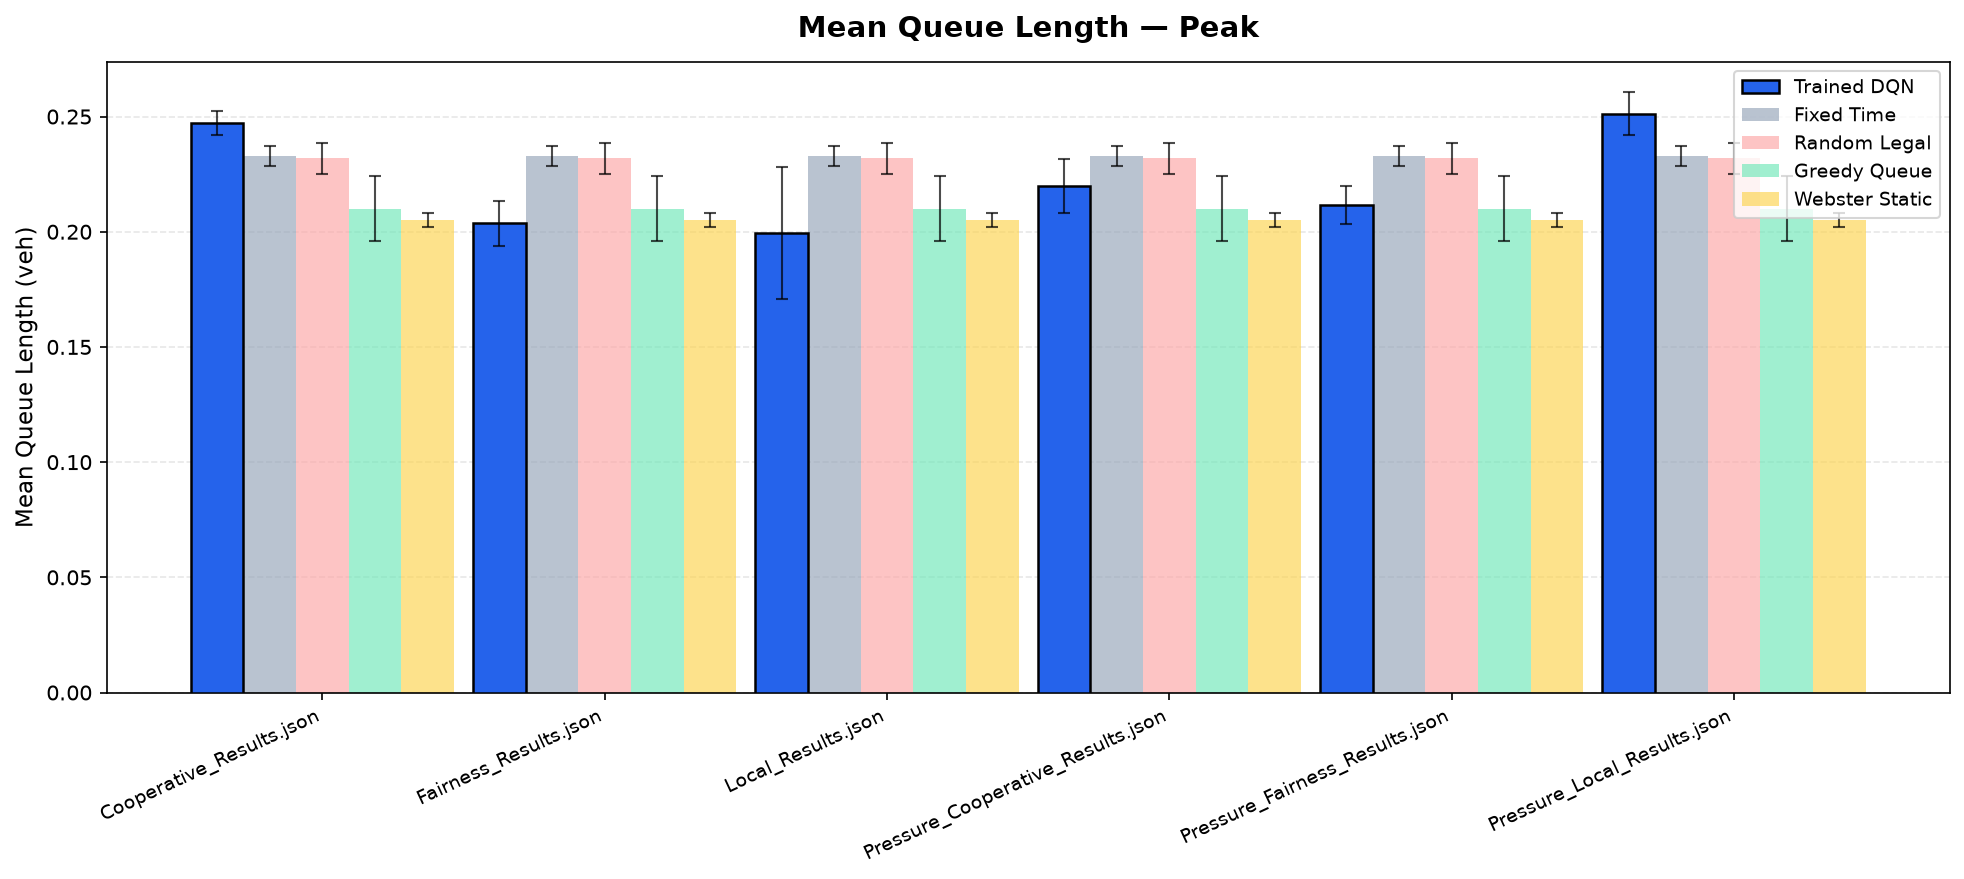
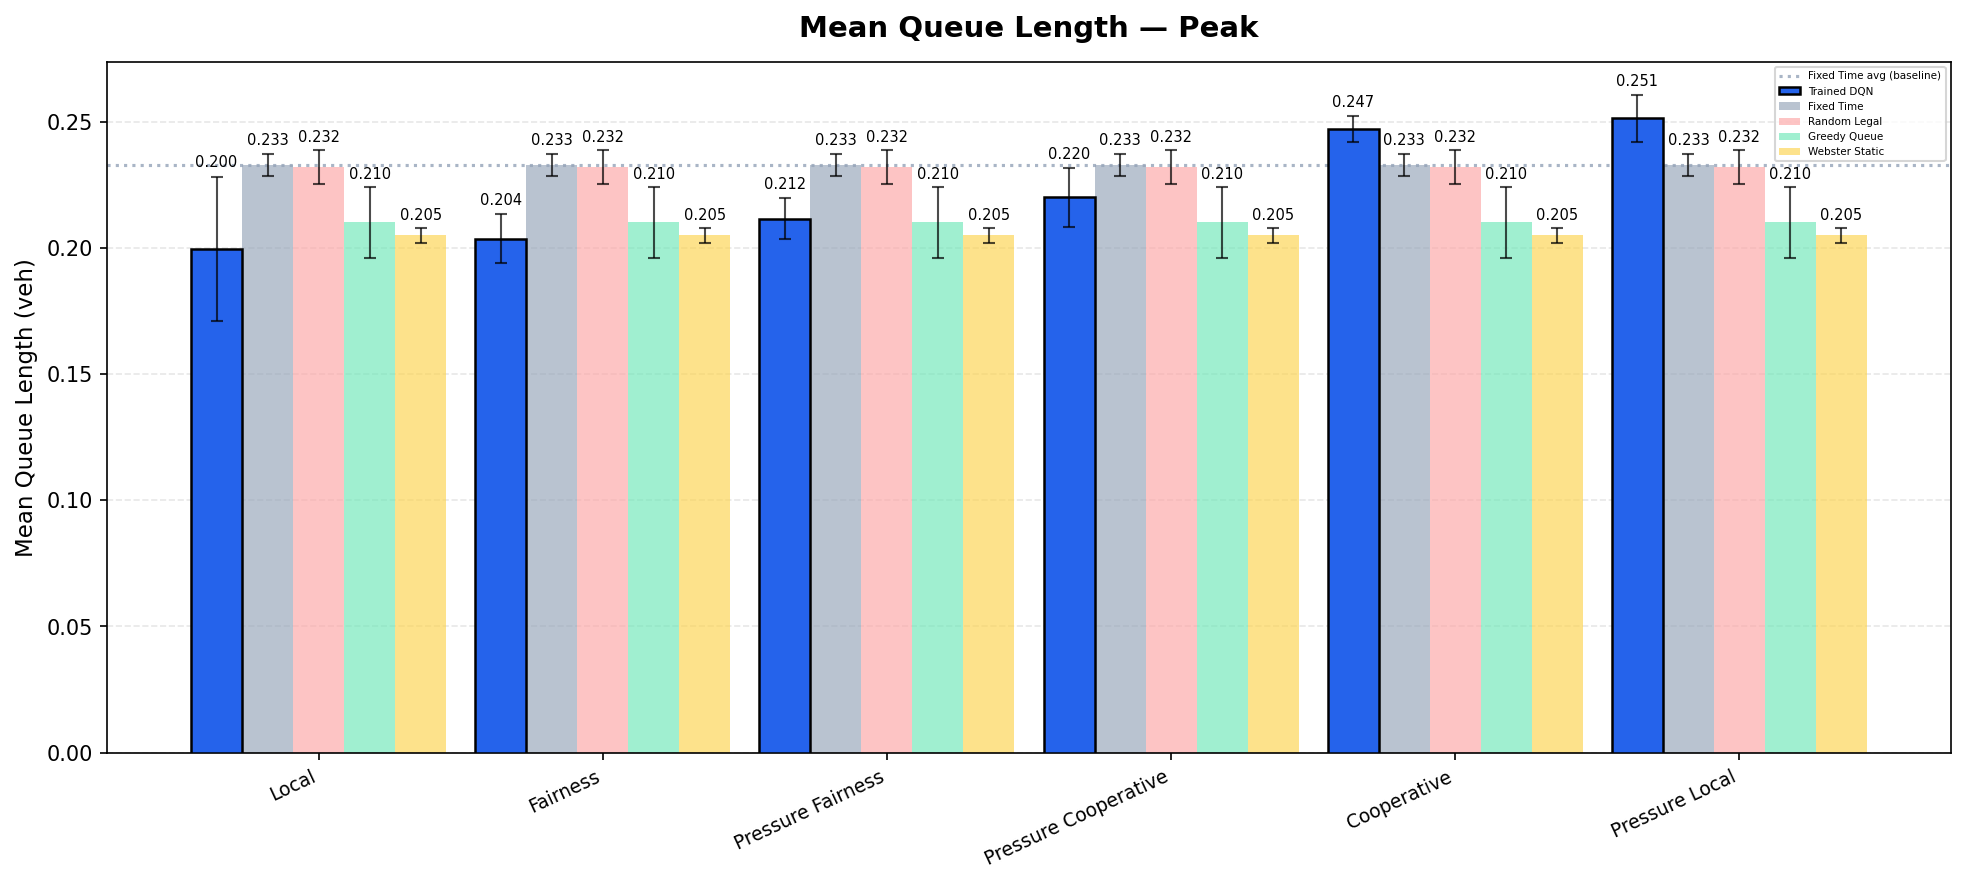
plot_result.py now plot original and pressure formulation
server.py mount plot
result.html changes

diff --git a/dashboard/templates/results.html b/dashboard/templates/results.html
@@ -5,6 +5,82 @@
     <meta name="viewport" content="width=device-width, initial-scale=1.0">
     <title>TrafficMind - Results</title>
     <link rel="stylesheet" href="/static/style.css">
+    <style>
+.formula-grid {
+    display: grid;
+    grid-template-columns: repeat(3, 1fr);
+    gap: 1rem;
+    margin-top: 1rem;
+}
+
+.formula-card {
+    background: var(--surface-2);
+    border: 1px solid var(--border-mid);
+    border-radius: 8px;
+    padding: 1rem 1.25rem;
+    display: flex;
+    flex-direction: column;
+    gap: 0.4rem;
+}
+
+.formula-name {
+    font-size: 0.72rem;
+    font-weight: 600;
+    letter-spacing: 0.1em;
+    text-transform: uppercase;
+    color: var(--a);
+    font-family: var(--mono);
+}
+
+.formula-eq {
+    font-size: 0.9rem;
+    color: var(--text);
+    font-family: var(--mono);
+}
+
+.formula-params {
+    font-size: 0.75rem;
+    color: var(--border-emp);
+    font-family: var(--mono);
+}
+
+.toggle-row {
+    display: flex;
+    gap: 0.5rem;
+    margin: 1rem 0;
+}
+
+.toggle-btn {
+    font-size: 0.72rem;
+    font-weight: 600;
+    letter-spacing: 0.08em;
+    text-transform: uppercase;
+    font-family: var(--mono);
+    padding: 0.35rem 0.85rem;
+    border-radius: 6px;
+    border: 1px solid var(--border-mid);
+    background: transparent;
+    color: var(--border-emp);
+    cursor: pointer;
+    transition: color 0.2s, border-color 0.2s;
+}
+
+.toggle-btn:hover { color: var(--text); border-color: var(--border-emp); }
+.toggle-btn.active { color: var(--a); border-color: var(--a); }
+
+.chart-grid {
+    display: grid;
+    grid-template-columns: 1fr 1fr;
+    gap: 1rem;
+    margin-top: 0.5rem;
+}
+
+.chart-grid img {
+    width: 100%;
+    border-radius: 6px;
+    border: 1px solid var(--border-sub);
+}
+    </style>
 </head>
 <body>
     <header>
@@ -25,13 +101,74 @@
             </p>
         </section>
 
+        <!-- havent add the styling to this -->
+        <section class="formula-block">
+            <div class="section-label">Original Formulations</div>
+            <div class="formula-grid">
+                <div class="formula-card">
+                    <div class="formula-name">Local</div>
+                    <div class="formula-eq">r = −(q + α·w) / 100</div>
+                    <div class="formula-params">α = 0.5</div>
+                </div>
+                <div class="formula-card">
+                    <div class="formula-name">Cooperative</div>
+                    <div class="formula-eq">r = −(q + α·w + β·Σq<sub>n</sub>) / 100</div>
+                    <div class="formula-params">α = 0.5, β = 0.3</div>
+                </div>
+                <div class="formula-card">
+                    <div class="formula-name">Fairness</div>
+                    <div class="formula-eq">r = −(q + α·w + β·Σq<sub>n</sub> + λ·s<sub>max</sub>) / 100</div>
+                    <div class="formula-params">α = 0.5, β = 0.3, λ = 0.1</div>
+                </div>
+            </div>
+        </section>
+
         <section class="desc-block">
-            <div class="section-label">Peak</div>
-            <p class="desc-subtitle">Below are the comparison between the 3 reward formulation in peak scenario</p>
-            <img src="" alt="">
-            <!-- make a table here comparing between 3 reward formulation peak,offpeak, and else -->
-             <!-- and then graph here -->
-              <!-- and then little conclusion here -->
+            <div class="section-label">Local, Cooperative, and Fairness Constrained Comparison</div>
+            <p class="desc-subtitle">Below are the comparison between the 3 reward formulation in peak and off peak scenario</p>
+
+            <div class="toggle-row">
+                <button class="toggle-btn active" onclick="switchScenario('original', 'peak', this)">Peak</button>
+                <button class="toggle-btn" onclick="switchScenario('original', 'off_peak', this)">Off-Peak</button>
+            </div>
+
+            <div class="chart-grid" id="original-charts">
+                <img src="/plots/original_rewards/kpi_mean_waiting_time_peak_original_reward.png" />
+                <img src="/plots/original_rewards/kpi_mean_queue_length_peak_original_reward.png" />
+                <img src="/plots/original_rewards/kpi_total_waiting_time_peak_original_reward.png" />
+                <img src="/plots/original_rewards/kpi_max_lane_wait_peak_original_reward.png" />
+            </div>
+            <!-- color description can be tag or something here follow the image -->
+            <!-- button here choosing peak or offpeak -->
+            <!-- and then graph here of peak or offpeak scenario comparison between 3 reward formulation -->
+            <!-- make a table here comparing between 3 reward formulation -->
+            <!-- and then little conclusion here -->
+        </section>
+
+        <!-- havent add the styling to this -->
+        <section class="formula-block">
+            <div class="section-label">Pressure Formulations</div>
+            <div class="formula-grid">
+                <div class="formula-card">
+                    <div class="formula-name">Pressure Local</div>
+                    <div class="formula-eq">r = −(q + α·w + β·P<sub>wrong</sub>) / 100</div>
+                    <div class="formula-params">α = 0.5, β = 2.0</div>
+                </div>
+                <div class="formula-card">
+                    <div class="formula-name">Pressure Cooperative</div>
+                    <div class="formula-eq">r = −(q + α·w + β·Σq<sub>n</sub> + γ·P<sub>wrong</sub>) / 100</div>
+                    <div class="formula-params">α = 0.5, β = 0.3, γ = 2.0</div>
+                </div>
+                <div class="formula-card">
+                    <div class="formula-name">Pressure Fairness</div>
+                    <div class="formula-eq">r = −(q + α·w + β·Σq<sub>n</sub> + λ·s<sub>max</sub> + γ·P<sub>wrong</sub>) / 100</div>
+                    <div class="formula-params">α = 0.5, β = 0.3, λ = 0.1, γ = 1.5</div>
+                </div>
+            </div>
+        </section>
+
+        <section class="desc-block">
+            <div class="section-label">Pressure Local, Pressure Cooperative, and Fairness Constrained</div>
         </section>
 
         <section class="desc-block">
@@ -40,5 +177,26 @@
         </section>
     </main>
 
+    <footer>
+        TrafficMind · Open Source · SUMO-based RL Traffic Signal Control
+    </footer>
+
+    <script>
+    function switchScenario(group, scenario, btn) {
+        // update active button
+        btn.closest('.toggle-row').querySelectorAll('.toggle-btn')
+        .forEach(b => b.classList.remove('active'));
+        btn.classList.add('active');
+
+        const prefix = group === 'original'
+            ? '/plots/original_rewards/kpi_'
+            : '/plots/pressure_rewards/kpi_';
+        const suffix = `_${scenario}_${group}_reward.png`;
+
+        const kpis = ['mean_waiting_time', 'mean_queue_length', 'total_waiting_time', 'max_lane_wait'];
+        const imgs = document.querySelectorAll(`#${group}-charts img`);
+        kpis.forEach((kpi, i) => { imgs[i].src = prefix + kpi + suffix; });
+    }
+    </script>
 </body>
 </html>

diff --git a/dashboard/templates/home.html b/dashboard/templates/home.html
@@ -6,10 +6,6 @@
   <title>TrafficMind - Project Overview</title>
   <link rel="stylesheet" href="/static/style.css">
   <style>
-
-
-
-
     /* ── Goals grid ───────────────────────────────────────────────── */
     .goals-grid {
       display: grid;

diff --git a/plot_result.py b/plot_result.py
@@ -102,6 +102,15 @@ KPI_META = {
     "total_waiting_time": ("Total Waiting Time (s)",    "Total Waiting Time"),
 }
 
+DISPLAY_NAMES = {
+    "Fairness_Results.json": "Fairness",
+    "Local_Results.json": "Local",
+    "Cooperative_Results.json": "Cooperative",
+    "Pressure_Fairness_Results.json": "Pressure Fairness",
+    "Pressure_Local_Results.json": "Pressure Local",
+    "Pressure_Cooperative_Results.json": "Pressure Cooperative",
+}
+
 def _key_from_filename(filename: str, suffix: str) -> str:
     """
     Convert a filename like 'pressure_local_peak_result.json' into a COLORS-style
@@ -207,7 +216,7 @@ def plot_rewards(data: dict[str, dict], filename:str) -> None:
                     fontsize=12, y=1.02)
     fig.tight_layout()
     fig.savefig(os.path.join(OUTPUT_DIR, filename), dpi=150, bbox_inches="tight")
-    print("  Saved: ", filename)
+    print("  Saved:", filename)
     plt.close(fig)
  
  
@@ -242,8 +251,15 @@ def plot_loss(data: dict[str, dict]) -> None:
     plt.close(fig)
 
 # ── KPI bar-chart helper ──────────────────────────────────────────────────────
- 
-def _plot_kpi(kpi_key: str, kpi_paths: dict[str, str], scenario_label: str) -> None:
+
+def _get_dqn_mean(model_key, kpi_paths, kpi_key):
+    try:
+        kpi_data = load(kpi_paths[model_key])
+        return kpi_data["policies"]["trained_dqn"]["aggregate"][kpi_key]["mean"]
+    except (KeyError, FileNotFoundError):
+        return float("inf")
+    
+def _plot_kpi(kpi_key: str, kpi_paths: dict[str, str], scenario_label: str, subfolder:str | None = None) -> None:
     """
     Draw a grouped bar chart for one KPI and one scenario (peak / off-peak).
  
@@ -254,17 +270,18 @@ def _plot_kpi(kpi_key: str, kpi_paths: dict[str, str], scenario_label: str) -> N
     """
     y_label, title_suffix = KPI_META[kpi_key]
  
-    model_keys = list(kpi_paths.keys())
+    model_keys = sorted(kpi_paths.keys(), key=lambda k: _get_dqn_mean(k, kpi_paths, kpi_key))
     n_models   = len(model_keys)
     n_policies = len(POLICY_ORDER)
  
-    bar_width   = 0.14
-    group_gap   = 0.05
+
+    bar_width = 0.14
+    group_gap = 0.08
     group_width = n_policies * bar_width + group_gap
     x_centers   = np.arange(n_models) * group_width
- 
+
     fig, ax = plt.subplots(figsize=(max(10, n_models * 2.2), 6))
- 
+    
     for p_idx, policy in enumerate(POLICY_ORDER):
         means, stds = [], []
         for model_key in model_keys:
@@ -277,7 +294,7 @@ def _plot_kpi(kpi_key: str, kpi_paths: dict[str, str], scenario_label: str) -> N
                 means.append(0.0)
                 stds.append(0.0)
  
-        offsets  = x_centers + (p_idx - n_policies / 2 + 0.5) * bar_width
+        offsets = x_centers + (p_idx - n_policies / 2 + 0.5) * bar_width
         color    = POLICY_COLORS[policy]
         is_dqn   = policy == "trained_dqn"
         alpha    = 1.0  if is_dqn else 0.65
@@ -298,15 +315,32 @@ def _plot_kpi(kpi_key: str, kpi_paths: dict[str, str], scenario_label: str) -> N
             capsize=3,
             error_kw=dict(elinewidth=1.0, ecolor="black", capthick=1.0, alpha=0.7),
         )
+
+        for x, y, stds in zip(offsets, means, stds):
+            ax.text(x, y + stds + max(means) * 0.01, f"{y:.3f}", ha="center", va="bottom", fontsize=7)
  
+    fixed_time_means = []
+    for model_key in model_keys:
+        try:
+            kpi_data = load(kpi_paths[model_key])
+            agg = kpi_data["policies"]["fixed_time"]["aggregate"][kpi_key]
+            fixed_time_means.append(agg["mean"])
+        except (KeyError, FileNotFoundError):
+            fixed_time_means.append(0.0)
+
+    avg_fixed = np.mean(fixed_time_means)
+    ax.axhline(avg_fixed, color="#94A3B8", linewidth=1.5, 
+            linestyle=":", alpha=0.8, label="Fixed Time avg (baseline)", zorder=1)
+    
+
     ax.set_xticks(x_centers)
-    ax.set_xticklabels(model_keys, rotation=25, ha="right", fontsize=9)
+    ax.set_xticklabels( [DISPLAY_NAMES.get(k, k) for k in model_keys], rotation=25, ha="right", fontsize=9)
     ax.set_ylabel(y_label, fontsize=11)
     ax.set_title(
         f"{title_suffix} — {scenario_label}",
         fontsize=14, fontweight="bold", pad=12,
     )
-    ax.legend(fontsize=9, loc="upper right")
+    ax.legend(fontsize=5, loc="upper right")
     ax.grid(True, axis="y", alpha=0.3, linestyle="--")
     ax.set_axisbelow(True)
     fig.tight_layout()
@@ -314,10 +348,20 @@ def _plot_kpi(kpi_key: str, kpi_paths: dict[str, str], scenario_label: str) -> N
     safe_kpi   = kpi_key.replace(" ", "_")
     safe_scen  = scenario_label.lower().replace(" ", "_").replace("-", "_")
     filename   = f"kpi_{safe_kpi}_{safe_scen}.png"
-    fig.savefig(os.path.join(OUTPUT_DIR, filename), dpi=150, bbox_inches="tight")
+    output_dir = None
+    if subfolder:
+        output_dir = os.path.join(OUTPUT_DIR, subfolder)
+    else:
+        output_dir = OUTPUT_DIR
+
+    os.makedirs(output_dir, exist_ok=True)
+    fig.savefig(os.path.join(output_dir, filename), dpi=150, bbox_inches="tight")
     print(f"  Saved: {filename}")
     plt.close(fig)
- 
+
+
+
+
  
 # ── Public KPI plot functions ─────────────────────────────────────────────────
  
@@ -347,8 +391,30 @@ def plot_max_waiting_time() -> None:
         _plot_kpi("max_lane_wait", KPI_PATHS_PEAK,    "Peak")
     if KPI_PATHS_OFFPEAK:
         _plot_kpi("max_lane_wait", KPI_PATHS_OFFPEAK, "Off-Peak")
- 
 
+ORIGINAL_KEYS = {"Local_Results.json", "Cooperative_Results.json", "Fairness_Results.json"}
+def plot_kpi_original() -> None:
+    print('plotting kpi originals.')
+    peak_paths    = {k: v for k, v in KPI_PATHS_PEAK.items() if k in ORIGINAL_KEYS}
+    offpeak_paths = {k: v for k, v in KPI_PATHS_OFFPEAK.items() if k in ORIGINAL_KEYS}
+
+    for kpi_key in KPI_META:
+        if peak_paths:
+            _plot_kpi(kpi_key, peak_paths, "Peak-Original-Reward", "original_rewards")
+        if offpeak_paths:
+            _plot_kpi(kpi_key, offpeak_paths, "Off-Peak-Original-Reward", "original_rewards")
+
+PRESSURE_KEYS =  {"Pressure_Local_Results.json", "Pressure_Cooperative_Results.json", "Pressure_Fairness_Results.json"}
+def plot_kpi_pressure() -> None:
+    print('plotting kpi pressure')
+    peak_paths      = {k : v for k, v in KPI_PATHS_PEAK.items() if k in PRESSURE_KEYS}
+    offpeak_paths   = {k : v for k, v in KPI_PATHS_OFFPEAK.items() if k in PRESSURE_KEYS}
+
+    for kpi_key in KPI_META:
+        if peak_paths:
+            _plot_kpi(kpi_key, peak_paths, "Peak-Pressure-Reward", "pressure_rewards")
+        if offpeak_paths:
+            _plot_kpi(kpi_key, offpeak_paths, "Off-Peak-Pressure-Reward", "pressure_rewards")
 '''
     Total Plot Image
     wait time : peak and off peak 2 image
@@ -399,6 +465,9 @@ def main():
     plot_mean_queue_time()
     plot_total_waiting_time()
     plot_max_waiting_time()
+
+    plot_kpi_original()
+    plot_kpi_pressure()
     
     print("Done.")
 

diff --git a/dashboard/server.py b/dashboard/server.py
@@ -24,6 +24,7 @@ LIVE_A = "live_a.json"
 LIVE_B = "live_b.json"
 
 app.mount("/static", StaticFiles(directory="static"), name="static")
+app.mount("/plots", StaticFiles(directory="output_plots"), name="plots")
 
 # ── Serve dashboard HTML ───────────────────────────────────────────────────────
 
